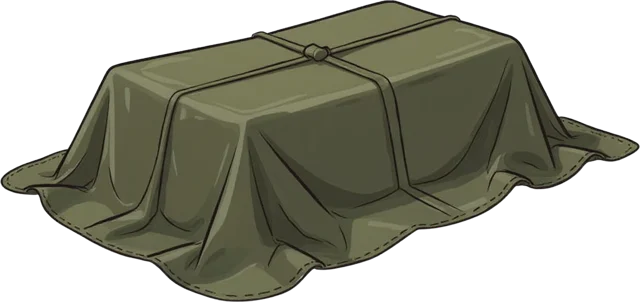
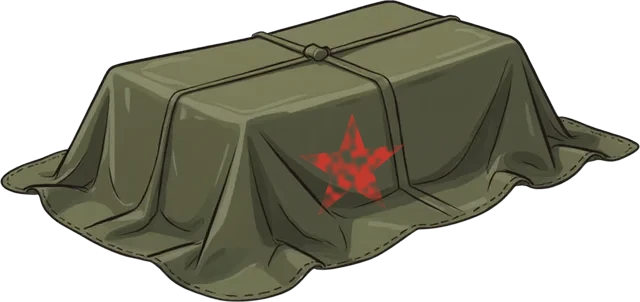
Ангар: звезда запечена в брезент вместо SVG-фильтра (подвисание на iPhone)

Changed region(s): [[0.4688, 0.3874, 0.625, 0.6854]]

diff --git a/components/hangar-scene.tsx b/components/hangar-scene.tsx
@@ -717,18 +717,9 @@ function HangarControlPanel({ canLeft, canRight, onLeft, onRocket, onRight }: { 
 
 // Брезент поверх предмета, к которому ещё не пройдены тренажёры: картинки Leonardo (public/hangar/tarp-*.webp,
 // исходники docs/hangar/leonardo/tarp-*), у каждого предмета свой по форме (TARP_OF_ITEM), растянут по размеру предмета.
-// Поверх кодом — трафаретная красная звезда Команданте на передней стороне ткани (замок — только у номера задания).
-// star — левый верхний угол и размер звезды в долях картинки + наклон вдоль края стороны; lock — центр замка.
+// Красная трафаретная звезда запечена в картинки (docs/hangar/tools/bake_tarp_stars.py, без звезды — docs/hangar/tarp-nostar/):
+// раньше рисовалась SVG-фильтром feTurbulence, и на iPhone приближение к предмету подвешивало страницу. Замок — только у номера.
 type TarpKind = 'square' | 'cube' | 'tall' | 'wide-rope' | 'wide-straps' | 'hang-tall' | 'hang-square'
-const TARPS: Record<TarpKind, { star: { l: number; t: number; w: number; h: number; skew: number }; lock: { l: number; t: number } }> = {
-    square: { star: { l: 50, t: 24, w: 28, h: 36, skew: -13 }, lock: { l: 27, t: 52 } },
-    cube: { star: { l: 58, t: 34, w: 22, h: 27, skew: -10 }, lock: { l: 27, t: 55 } },
-    tall: { star: { l: 34, t: 22, w: 40, h: 24, skew: 0 }, lock: { l: 50, t: 66 } },
-    'wide-rope': { star: { l: 46, t: 35, w: 18, h: 38, skew: -8 }, lock: { l: 17, t: 52 } },
-    'wide-straps': { star: { l: 46, t: 36, w: 18, h: 37, skew: -6 }, lock: { l: 15, t: 52 } },
-    'hang-tall': { star: { l: 35, t: 26, w: 30, h: 23, skew: 0 }, lock: { l: 50, t: 72 } },
-    'hang-square': { star: { l: 36, t: 27, w: 28, h: 25, skew: 0 }, lock: { l: 50, t: 74 } },
-}
 // id картинки предмета → форма брезента
 const TARP_OF_ITEM: Record<number, TarpKind> = {
     1: 'wide-rope', 2: 'hang-square', 3: 'wide-straps', 4: 'wide-rope', 5: 'wide-straps', 6: 'wide-rope', 7: 'tall',
@@ -737,27 +728,12 @@ const TARP_OF_ITEM: Record<number, TarpKind> = {
 function Tarp({ item, style, onClick, onHover }: { item: number; style: React.CSSProperties; onClick: () => void; onHover: (on: boolean) => void }) {
     const z = typeof style.zIndex === 'number' ? style.zIndex + 1 : 20
     const kind = TARP_OF_ITEM[item] ?? 'square'
-    const { star } = TARPS[kind]
     return (
         <button type="button" aria-label="Под брезентом — сначала тренажёры" onClick={onClick}
             onMouseEnter={() => onHover(true)} onMouseLeave={() => onHover(false)}
             className="absolute cursor-pointer" style={{ ...style, zIndex: z, scale: '1.12', filter: FLOOR_SHADOW }}>
             {/* eslint-disable-next-line @next/next/no-img-element */}
             <img src={`/hangar/tarp-${kind}.webp`} alt="" draggable={false} className="absolute inset-0 h-full w-full select-none" style={{ objectFit: 'fill' }} />
-            {/* звезда по трафарету: краска местами стёрлась (шум-маска) */}
-            <svg viewBox="0 0 100 100" className="pointer-events-none absolute" preserveAspectRatio="none"
-                style={{ left: `${star.l}%`, top: `${star.t}%`, width: `${star.w}%`, height: `${star.h}%`, transform: star.skew ? `skewY(${star.skew}deg)` : undefined, opacity: 0.85 }} aria-hidden>
-                <defs>
-                    <filter id="tarp-worn" x="0" y="0" width="100%" height="100%">
-                        <feTurbulence type="fractalNoise" baseFrequency="0.9" numOctaves="2" seed="7" result="n" />
-                        <feColorMatrix in="n" type="matrix" values="0 0 0 0 0  0 0 0 0 0  0 0 0 0 0  0 0 0 -2.2 1.6" result="m" />
-                        <feComposite in="SourceGraphic" in2="m" operator="in" />
-                    </filter>
-                </defs>
-                <g filter="url(#tarp-worn)">
-                    <path d="M50 4 L61 37 L96 37 L68 58 L79 92 L50 71 L21 92 L32 58 L4 37 L39 37 Z" fill="#D8352C" />
-                </g>
-            </svg>
         </button>
     )
 }

diff --git a/docs/hangar/tools/bake_tarp_stars.py b/docs/hangar/tools/bake_tarp_stars.py
@@ -1,0 +1,47 @@
+"""Запекает красную трафаретную звезду в картинки брезента (раньше рисовалась SVG-фильтром feTurbulence поверх —
+на iPhone этот фильтр пересчитывался на всех брезентах каждый кадр приближения и подвешивал страницу).
+Исходники без звезды — docs/hangar/tarp-nostar/, результат — public/hangar/tarp-*.webp.
+Положение звезды (доли картинки + наклон) — те же числа, что были в TARPS (components/hangar-scene.tsx).
+Запуск: python3 docs/hangar/tools/bake_tarp_stars.py
+"""
+import math, numpy as np
+from PIL import Image, ImageDraw, ImageFilter
+
+STAR = [(50,4),(61,37),(96,37),(68,58),(79,92),(50,71),(21,92),(32,58),(4,37),(39,37)]
+TARPS = {
+    'square': (50, 24, 28, 36, -13), 'cube': (58, 34, 22, 27, -10), 'tall': (34, 22, 40, 24, 0),
+    'wide-rope': (46, 35, 18, 38, -8), 'wide-straps': (46, 36, 18, 37, -6),
+    'hang-tall': (35, 26, 30, 23, 0), 'hang-square': (36, 27, 28, 25, 0),
+}
+rng = np.random.default_rng(7)
+
+def noise(w, h):
+    # «стёртая краска»: крупный и мелкий шум, местами краска пропадает
+    out = np.zeros((h, w))
+    for s, a in [(6, 0.6), (14, 0.3), (40, 0.1)]:
+        sm = rng.random((max(2, h // s), max(2, w // s)))
+        out += a * np.array(Image.fromarray((sm * 255).astype(np.uint8)).resize((w, h), Image.BICUBIC)) / 255
+    return np.clip((out - 0.25) * 2.4, 0, 1)
+
+for kind, (l, t, w, h, skew) in TARPS.items():
+    im = Image.open(f'docs/hangar/tarp-nostar/tarp-{kind}.webp').convert('RGBA')
+    W, H = im.size
+    bx, by, bw, bh = l / 100 * W, t / 100 * H, w / 100 * W, h / 100 * H
+    k = math.tan(math.radians(skew))
+    cx = bx + bw / 2
+    pts = []
+    for px, py in STAR:
+        x = bx + px / 100 * bw
+        y = by + py / 100 * bh + k * (x - cx)  # skewY вокруг центра
+        pts.append((x, y))
+    SS = 3  # сглаживание
+    m = Image.new('L', (W * SS, H * SS), 0)
+    ImageDraw.Draw(m).polygon([(x * SS, y * SS) for x, y in pts], fill=255)
+    m = m.resize((W, H), Image.LANCZOS)
+    a = np.array(m) / 255 * noise(W, H) * 0.85 * (np.array(im)[:, :, 3] / 255)
+    star = np.zeros((H, W, 4), np.uint8)
+    star[:, :, 0], star[:, :, 1], star[:, :, 2] = 0xD8, 0x35, 0x2C
+    star[:, :, 3] = (a * 255).astype(np.uint8)
+    out = Image.alpha_composite(im, Image.fromarray(star))
+    out.save(f'public/hangar/tarp-{kind}.webp', quality=90)
+    print(kind, W, H)

diff --git a/CLAUDE.md b/CLAUDE.md
@@ -15392,3 +15392,7 @@ source_ref = номер задания, один раз; открывается 
   лотка защищено от двойных касаний телефона (`trayGuard`: повтор < 400 мс и нажатие < 500 мс после закрытия плашки игнорируются;
   закрытие плашки задания сбрасывает лоток и наведение) — иначе после крестика «призрачный» тап по ракете тихо переключал лоток.
   Надпись «МФТИ» и днём, и ночью — цветом самого силуэта (без жёлтого).
+- (2026-11-02) Звезда на брезентах запечена в картинки (`docs/hangar/tools/bake_tarp_stars.py`, исходники без звезды —
+  `docs/hangar/tarp-nostar/`). Раньше она рисовалась SVG-фильтром feTurbulence поверх каждого брезента, и на iPhone после
+  2–3 приближений к предмету страница зависала секунд на 15 (нажатия копились и срабатывали разом). **Правило: никаких
+  SVG-фильтров (feTurbulence и т.п.) на элементах внутри приближаемой сцены ангара — только готовые картинки.**
